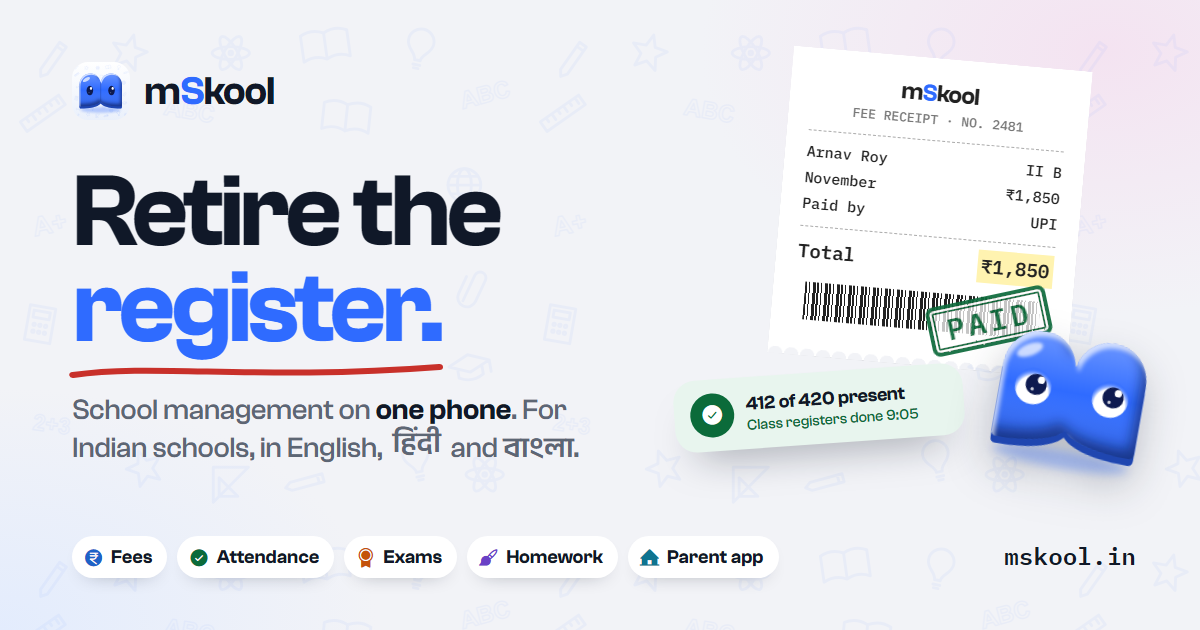
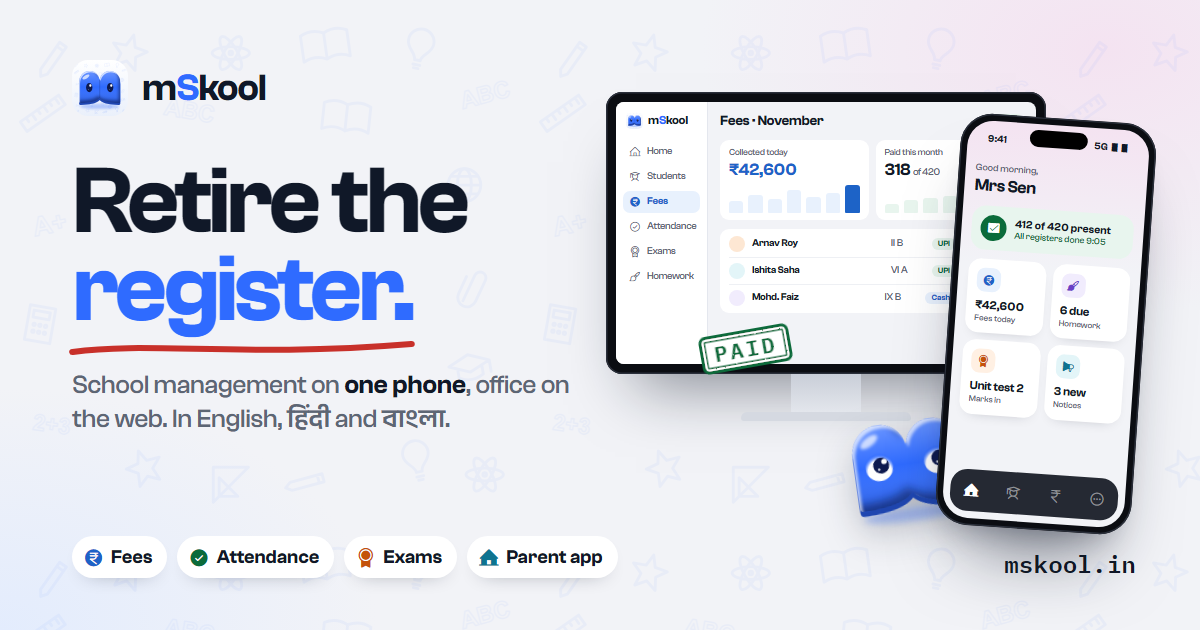
feat(site): prices x3; share image shows the phone and office desktop
Office ₹12, School ₹18, Group ₹24 per student a month billed yearly
(₹15/₹21/₹30 monthly). The chai line no longer holds at ₹18, so the
headline is now worked out from the School price: "Under 60 paise a day".
The yearly discount and the FAQ minimum are computed from the plans too.

og.png now has the staff app on a phone in front of the office web app
on a small desktop. The renderer uses a fresh browser profile each run,
because a shared one served a cached page.

diff --git a/apps/site/og/og.html b/apps/site/og/og.html
@@ -8,52 +8,89 @@
 <head>
 <meta charset="utf-8">
 <link href="https://api.fontshare.com/v2/css?f[]=clash-grotesk@500,600&display=block" rel="stylesheet">
-<link href="https://fonts.googleapis.com/css2?family=IBM+Plex+Mono:wght@500;600&family=Anek+Devanagari:wght@600&family=Anek+Bangla:wght@600&family=Kalam:wght@700&display=block" rel="stylesheet">
+<link href="https://fonts.googleapis.com/css2?family=IBM+Plex+Mono:wght@500;600&family=Anek+Devanagari:wght@600&family=Anek+Bangla:wght@600&display=block" rel="stylesheet">
 <link href="../node_modules/@phosphor-icons/web/src/fill/style.css" rel="stylesheet">
+<link href="../node_modules/@phosphor-icons/web/src/regular/style.css" rel="stylesheet">
 <style>
-  :root{--ink:#101828;--muted:#5D6674;--blue:#2F6BFF;--red:#C8302A;--att:#0B6B3A;--fee:#1D63C7;--ex:#C4520A;--hw:#6941C6;--stu:#0E7490}
+  :root{--ink:#101828;--muted:#5D6674;--line:#E4E7EE;--canvas:#F2F3F7;--blue:#2F6BFF;--red:#C8302A;
+    --att:#0B6B3A;--att-bg:#E8F5EE;--fee:#1D63C7;--fee-bg:#E8F1FD;--ex:#C4520A;--ex-bg:#FFF0E3;--hw:#6941C6;--hw-bg:#F1ECFD;--stu:#0E7490;--stu-bg:#E3F5F8}
   *{box-sizing:border-box;margin:0;padding:0}
   html,body{width:1200px;height:630px;overflow:hidden}
   body{position:relative;font-family:"Clash Grotesk",sans-serif;color:var(--ink);background:
     radial-gradient(48% 60% at 92% 8%,#F4E3F1 0%,rgba(244,227,241,0) 70%),
-    radial-gradient(45% 55% at 0% 100%,#E3ECFD 0%,rgba(227,236,253,0) 70%),#F2F3F7}
+    radial-gradient(45% 55% at 0% 100%,#E3ECFD 0%,rgba(227,236,253,0) 70%),var(--canvas)}
   body::before{content:"";position:absolute;inset:0;background:url(../public/brand/doodles.svg) 0 0/520px repeat;opacity:.05}
 
-  .left{position:absolute;left:72px;top:62px;width:660px}
-  .brand{display:flex;align-items:center;gap:14px;font-weight:600;font-size:40px;letter-spacing:-.03em}
-  .brand img{width:58px;height:58px;border-radius:16px}
+  /* ===== left: words ===== */
+  .left{position:absolute;left:72px;top:60px;width:540px}
+  .brand{display:flex;align-items:center;gap:14px;font-weight:600;font-size:38px;letter-spacing:-.03em}
+  .brand img{width:56px;height:56px;border-radius:16px}
   .brand b{color:var(--blue);font-weight:600}
-  h1{margin-top:44px;font-weight:600;font-size:104px;line-height:.92;letter-spacing:-.045em}
+  h1{margin-top:42px;font-weight:600;font-size:96px;line-height:.92;letter-spacing:-.045em}
   h1 .w{position:relative;color:var(--blue);white-space:nowrap}
-  h1 .w svg{position:absolute;left:-4px;right:-4px;bottom:-16px;width:calc(100% + 8px);height:24px}
-  .sub{margin-top:36px;font-size:29px;line-height:1.3;color:var(--muted);font-weight:500;letter-spacing:-.01em;max-width:540px}
+  h1 .w svg{position:absolute;left:-4px;bottom:-15px;width:calc(100% + 8px);height:22px}
+  .sub{margin-top:34px;font-size:26px;line-height:1.3;color:var(--muted);font-weight:500;letter-spacing:-.01em;max-width:520px}
   .sub b{color:var(--ink);font-weight:600}
-  .langs{display:inline-flex;gap:10px}
-  .langs span:nth-child(2){font-family:"Anek Devanagari"}.langs span:nth-child(3){font-family:"Clash Grotesk"}.langs .bn{font-family:"Anek Bangla"}
-  .foot{position:absolute;left:72px;bottom:52px;display:flex;align-items:center;gap:10px}
+  .hi{font-family:"Anek Devanagari"}.bn{font-family:"Anek Bangla"}
+  .foot{position:absolute;left:72px;bottom:52px;display:flex;gap:10px}
   .chip{display:inline-flex;align-items:center;gap:7px;height:42px;padding:0 15px 0 11px;border-radius:99px;background:#fff;font-weight:600;font-size:19px;box-shadow:0 8px 20px -14px rgba(16,24,40,.45)}
   .chip i{font-size:21px}
-  .url{position:absolute;right:64px;bottom:58px;font-family:"IBM Plex Mono";font-weight:600;font-size:24px;color:var(--ink);letter-spacing:.01em}
+  .url{position:absolute;right:64px;bottom:50px;font-family:"IBM Plex Mono";font-weight:600;font-size:24px;letter-spacing:.01em}
 
-  /* right: a printed fee receipt, stamped, with Bookie in front */
-  .rc{position:absolute;right:120px;top:58px;width:300px;padding:20px 22px 36px;background:#fff;rotate:5deg;font-family:"IBM Plex Mono";font-size:15px;line-height:1.75;color:#222;
-    box-shadow:0 40px 60px -30px rgba(16,24,40,.45),0 10px 20px -12px rgba(16,24,40,.25);
-    -webkit-mask:radial-gradient(circle at 8px 100%,transparent 7px,#000 7.5px) 0 0/16px 100% repeat-x}
-  .rc .c{text-align:center}
-  .rc .bn{font-family:"Clash Grotesk";font-weight:600;font-size:24px;letter-spacing:-.03em;line-height:1.3}
-  .rc .bn b{color:var(--blue);font-weight:600}
-  .rc .m{color:#777;font-size:13px}
-  .rc hr{border:0;border-top:1.5px dashed #aaa;margin:8px 0}
-  .rc .r{display:flex;justify-content:space-between}
-  .rc .t{font-weight:600;font-size:19px}
-  .rc .t b{background:#FFF3B0;padding:0 4px}
-  .rc .bars{height:38px;margin:14px 10px 0;background:repeating-linear-gradient(90deg,#222 0 2px,transparent 2px 4px,#222 4px 5px,transparent 5px 8px,#222 8px 11px,transparent 11px 12px)}
-  .stamp{position:absolute;right:150px;top:296px;rotate:-12deg;background:rgba(255,255,255,.8);font-family:"IBM Plex Mono";font-weight:600;font-size:30px;letter-spacing:.12em;color:var(--att);border:4px solid currentColor;border-radius:8px;padding:6px 14px;line-height:1;filter:url(#ink);box-shadow:inset 0 0 0 2px #fff,inset 0 0 0 4px currentColor;opacity:.92}
-  .att{position:absolute;right:236px;top:372px;width:290px;display:flex;align-items:center;gap:12px;padding:14px 16px;border-radius:22px;background:#E8F5EE;color:var(--att);rotate:-4deg;box-shadow:0 24px 40px -24px rgba(16,24,40,.5)}
-  .att i{width:44px;height:44px;border-radius:50%;background:var(--att);color:#fff;display:grid;place-items:center;font-size:24px;flex:none}
-  .att b{display:block;font-weight:600;font-size:19px;letter-spacing:-.02em;color:var(--ink)}
-  .att span{font-size:15px;font-weight:500}
-  .bookie{position:absolute;right:46px;top:330px;width:170px;rotate:10deg;filter:drop-shadow(0 18px 20px rgba(16,24,40,.25))}
+  /* ===== desktop: the office web app ===== */
+  .desk{position:absolute;left:606px;top:92px;width:440px}
+  .mon{background:#0B0D12;border-radius:16px;padding:10px;box-shadow:inset 0 0 0 1.5px #2a2f3a,0 40px 60px -30px rgba(16,24,40,.5)}
+  .ds{display:flex;height:262px;border-radius:8px;overflow:hidden;background:var(--canvas);font-size:9.5px;line-height:1.25}
+  .side{width:92px;background:#fff;border-right:1px solid var(--line);padding:10px 7px;display:flex;flex-direction:column;gap:3px}
+  .side .lg{display:flex;align-items:center;gap:5px;font-weight:600;font-size:12px;letter-spacing:-.02em;margin:0 0 9px 3px}
+  .side .lg img{width:17px;height:17px;border-radius:5px}
+  .side .lg b{color:var(--blue);font-weight:600}
+  .side > span{display:flex;align-items:center;gap:6px;padding:5px 6px;border-radius:7px;font-weight:500;color:var(--muted)}
+  .side > span i{font-size:12px}
+  .side .on{background:var(--fee-bg);color:var(--fee);font-weight:600}
+  .main{flex:1;padding:11px 12px;min-width:0}
+  .main h4{font-weight:600;font-size:14px;letter-spacing:-.02em;display:flex;justify-content:space-between;align-items:center}
+  .main h4 em{font-style:normal;font-size:9px;font-weight:600;color:var(--att);background:var(--att-bg);padding:2px 7px;border-radius:99px}
+  .kpis{display:grid;grid-template-columns:1fr 1fr;gap:7px;margin:9px 0}
+  .kpi{background:#fff;border-radius:9px;padding:7px 9px}
+  .kpi span{color:var(--muted);font-size:8.5px}
+  .kpi b{display:block;font-weight:600;font-size:17px;letter-spacing:-.03em;margin-top:1px}
+  .kpi.f b{color:var(--fee)}
+  .bars{display:flex;align-items:flex-end;gap:5px;height:28px;margin-top:4px}
+  .bars i{flex:1;border-radius:3px 3px 1px 1px;background:var(--fee-bg)}
+  .bars i:last-child{background:var(--fee)}
+  .tbl{background:#fff;border-radius:9px;padding:2px 9px}
+  .tr{display:flex;align-items:center;gap:7px;padding:5px 0;border-bottom:1px solid #EEF0F4}
+  .tr:last-child{border:0}
+  .tr .av{width:16px;height:16px;border-radius:50%;flex:none}
+  .tr .n{flex:1;font-weight:600}
+  .tr .c{color:var(--muted);width:34px}
+  .tr .p{font-size:8px;font-weight:600;padding:1px 6px;border-radius:99px;background:var(--att-bg);color:var(--att)}
+  .tr .a{font-family:"IBM Plex Mono";font-weight:600;width:52px;text-align:right}
+  .neck{width:70px;height:38px;margin:0 auto;background:linear-gradient(180deg,#C9CED8,#E3E6EC)}
+  .base{width:170px;height:9px;margin:0 auto;border-radius:6px 6px 3px 3px;background:#D5D9E1;box-shadow:0 10px 18px -8px rgba(16,24,40,.4)}
+
+  /* ===== phone: the staff app ===== */
+  .phone{position:absolute;left:948px;top:118px;width:196px;height:412px;border-radius:32px;background:#0B0D12;padding:7px;rotate:4deg;z-index:3;
+    box-shadow:inset 0 0 0 1.5px #2a2f3a,0 50px 70px -30px rgba(16,24,40,.55),0 20px 30px -20px rgba(16,24,40,.3)}
+  .phone::before{content:"";position:absolute;top:13px;left:50%;width:58px;height:17px;translate:-50% 0;border-radius:99px;background:#000;z-index:2}
+  .ps{position:relative;height:100%;border-radius:26px;overflow:hidden;background:linear-gradient(180deg,#F4E3F1 0%,var(--canvas) 36%);padding:0 10px;font-size:9px;line-height:1.25}
+  .sb{display:flex;justify-content:space-between;height:34px;padding:12px 10px 0;font-weight:600;font-size:10px}
+  .gm{margin-top:8px;color:var(--muted);font-size:9.5px}
+  .nm{font-weight:600;font-size:17px;letter-spacing:-.03em}
+  .ok{display:flex;align-items:center;gap:8px;margin-top:10px;padding:9px;border-radius:14px;background:var(--att-bg);color:var(--att)}
+  .ok i{width:26px;height:26px;border-radius:50%;background:var(--att);color:#fff;display:grid;place-items:center;font-size:14px;flex:none}
+  .ok b{display:block;font-weight:600;font-size:11px;color:var(--ink)}
+  .tiles{display:grid;grid-template-columns:1fr 1fr;gap:7px;margin-top:9px}
+  .tile{background:#fff;border-radius:13px;padding:9px;box-shadow:0 6px 14px -10px rgba(16,24,40,.3)}
+  .tile i{width:24px;height:24px;border-radius:8px;display:grid;place-items:center;font-size:13px;margin-bottom:6px}
+  .tile b{display:block;font-weight:600;font-size:12px;letter-spacing:-.02em}
+  .tile span{color:var(--muted);font-size:8.5px}
+  .tabs{position:absolute;left:7px;right:7px;bottom:7px;height:42px;border-radius:17px;background:rgba(20,24,34,.92);display:flex;justify-content:space-around;align-items:center;color:rgba(255,255,255,.5);font-size:16px}
+  .tabs .on{color:#fff}
+
+  .bookie{position:absolute;left:846px;top:416px;width:128px;rotate:-8deg;z-index:2;filter:drop-shadow(0 16px 18px rgba(16,24,40,.25))}
+  .stamp{position:absolute;left:700px;top:330px;z-index:4;rotate:-10deg;background:#fff;font-family:"IBM Plex Mono";font-weight:600;font-size:22px;letter-spacing:.12em;color:var(--att);border:3.5px solid currentColor;border-radius:7px;padding:5px 11px;line-height:1;filter:url(#ink);box-shadow:inset 0 0 0 2px #fff,inset 0 0 0 3.5px currentColor}
 </style>
 </head>
 <body>
@@ -61,30 +98,58 @@
 
   <div class="left">
     <div class="brand"><img src="../public/brand/app-icon.svg" alt=""><span>m<b>S</b>kool</span></div>
-    <h1>Retire the<br><span class="w">register.<svg viewBox="0 0 300 24" preserveAspectRatio="none"><path d="M4 16 C 70 4, 150 22, 296 8" fill="none" stroke="#C8302A" stroke-width="6" stroke-linecap="round"/></svg></span></h1>
-    <p class="sub">School management on <b>one phone</b>. For Indian schools, in <span class="langs"><span>English,</span><span>हिंदी</span><span>and <span class="bn">বাংলা</span>.</span></span></p>
+    <h1>Retire the<br><span class="w">register.<svg viewBox="0 0 300 22" preserveAspectRatio="none"><path d="M4 15 C 70 4, 150 21, 296 7" fill="none" stroke="#C8302A" stroke-width="6" stroke-linecap="round"/></svg></span></h1>
+    <p class="sub">School management on <b>one phone</b>, office on the web. In English, <span class="hi">हिंदी</span> and <span class="bn">বাংলা</span>.</p>
   </div>
 
-  <div class="rc">
-    <div class="c bn">m<b>S</b>kool</div>
-    <div class="c m">FEE RECEIPT · NO. 2481</div>
-    <hr>
-    <div class="r"><span>Arnav Roy</span><span>II B</span></div>
-    <div class="r"><span>November</span><span>₹1,850</span></div>
-    <div class="r"><span>Paid by</span><span>UPI</span></div>
-    <hr>
-    <div class="r t"><span>Total</span><b>₹1,850</b></div>
-    <div class="bars"></div>
+  <div class="desk">
+    <div class="mon"><div class="ds">
+      <div class="side">
+        <div class="lg"><img src="../public/brand/app-icon.svg" alt=""><span>m<b>S</b>kool</span></div>
+        <span><i class="ph ph-house-line"></i>Home</span>
+        <span><i class="ph ph-student"></i>Students</span>
+        <span class="on"><i class="ph-fill ph-currency-inr"></i>Fees</span>
+        <span><i class="ph ph-check-circle"></i>Attendance</span>
+        <span><i class="ph ph-medal"></i>Exams</span>
+        <span><i class="ph ph-paint-brush"></i>Homework</span>
+      </div>
+      <div class="main">
+        <h4>Fees · November <em>Live</em></h4>
+        <div class="kpis">
+          <div class="kpi f"><span>Collected today</span><b>₹42,600</b><div class="bars"><i style="height:40%"></i><i style="height:62%"></i><i style="height:48%"></i><i style="height:80%"></i><i style="height:55%"></i><i style="height:70%"></i><i style="height:100%"></i></div></div>
+          <div class="kpi"><span>Paid this month</span><b>318 <small style="font-size:10px;color:var(--muted);font-weight:500">of 420</small></b><div class="bars"><i style="height:30%;background:var(--att-bg)"></i><i style="height:45%;background:var(--att-bg)"></i><i style="height:52%;background:var(--att-bg)"></i><i style="height:60%;background:var(--att-bg)"></i><i style="height:68%;background:var(--att-bg)"></i><i style="height:72%;background:var(--att-bg)"></i><i style="height:76%;background:var(--att)"></i></div></div>
+        </div>
+        <div class="tbl">
+          <div class="tr"><span class="av" style="background:#FDE7D3"></span><span class="n">Arnav Roy</span><span class="c">II B</span><span class="p">UPI</span><span class="a">₹1,850</span></div>
+          <div class="tr"><span class="av" style="background:#E3F5F8"></span><span class="n">Ishita Saha</span><span class="c">VI A</span><span class="p">UPI</span><span class="a">₹2,550</span></div>
+          <div class="tr"><span class="av" style="background:#F1ECFD"></span><span class="n">Mohd. Faiz</span><span class="c">IX B</span><span class="p" style="background:var(--fee-bg);color:var(--fee)">Cash</span><span class="a">₹3,400</span></div>
+        </div>
+      </div>
+    </div></div>
+    <div class="neck"></div><div class="base"></div>
   </div>
   <div class="stamp">PAID</div>
-  <div class="att"><i class="ph-fill ph-check-circle"></i><div><b>412 of 420 present</b><span>Class registers done 9:05</span></div></div>
+
   <img class="bookie" src="../public/brand/mascot.svg" alt="">
+
+  <div class="phone"><div class="ps">
+    <div class="sb"><span>9:41</span><span>5G ▮▮</span></div>
+    <div class="gm">Good morning,</div>
+    <div class="nm">Mrs Sen</div>
+    <div class="ok"><i class="ph-fill ph-check"></i><div><b>412 of 420 present</b>All registers done 9:05</div></div>
+    <div class="tiles">
+      <div class="tile"><i class="ph-fill ph-currency-inr" style="background:var(--fee-bg);color:var(--fee)"></i><b>₹42,600</b><span>Fees today</span></div>
+      <div class="tile"><i class="ph-fill ph-paint-brush" style="background:var(--hw-bg);color:var(--hw)"></i><b>6 due</b><span>Homework</span></div>
+      <div class="tile"><i class="ph-fill ph-medal" style="background:var(--ex-bg);color:var(--ex)"></i><b>Unit test 2</b><span>Marks in</span></div>
+      <div class="tile"><i class="ph-fill ph-megaphone" style="background:var(--stu-bg);color:var(--stu)"></i><b>3 new</b><span>Notices</span></div>
+    </div>
+    <div class="tabs"><i class="ph-fill ph-house-line on"></i><i class="ph ph-student"></i><i class="ph ph-currency-inr"></i><i class="ph ph-dots-three-circle"></i></div>
+  </div></div>
 
   <div class="foot">
     <span class="chip"><i class="ph-fill ph-currency-inr" style="color:var(--fee)"></i>Fees</span>
     <span class="chip"><i class="ph-fill ph-check-circle" style="color:var(--att)"></i>Attendance</span>
     <span class="chip"><i class="ph-fill ph-medal" style="color:var(--ex)"></i>Exams</span>
-    <span class="chip"><i class="ph-fill ph-paint-brush" style="color:var(--hw)"></i>Homework</span>
     <span class="chip"><i class="ph-fill ph-house-line" style="color:var(--stu)"></i>Parent app</span>
   </div>
   <div class="url">mskool.in</div>

diff --git a/apps/site/src/pricing.ts b/apps/site/src/pricing.ts
@@ -14,17 +14,17 @@ export interface Plan {
 export const PLANS: Plan[] = [
   {
     id: "office", name: "Office", tagline: "Run the office: admissions, fees, attendance.",
-    yearly: 4, monthly: 5,
+    yearly: 12, monthly: 15,
     bullets: ["Students and admissions", "Fees, receipts and UPI QR", "Student and staff attendance", "ID cards", "Notices to WhatsApp"],
   },
   {
     id: "school", name: "School", tagline: "The whole school: office, teachers and parents.",
-    yearly: 6, monthly: 7, popular: true,
+    yearly: 18, monthly: 21, popular: true,
     bullets: ["Everything in Office", "Exams and report cards", "Homework and quizzes", "Timetable", "Parent and student app"],
   },
   {
     id: "group", name: "Group", tagline: "For owners who run more than one branch.",
-    yearly: 8, monthly: 10,
+    yearly: 24, monthly: 30,
     bullets: ["Everything in School", "Many branches, one login", "Owner view across branches", "Same-day priority support", "A named person for your setup"],
   },
 ];
